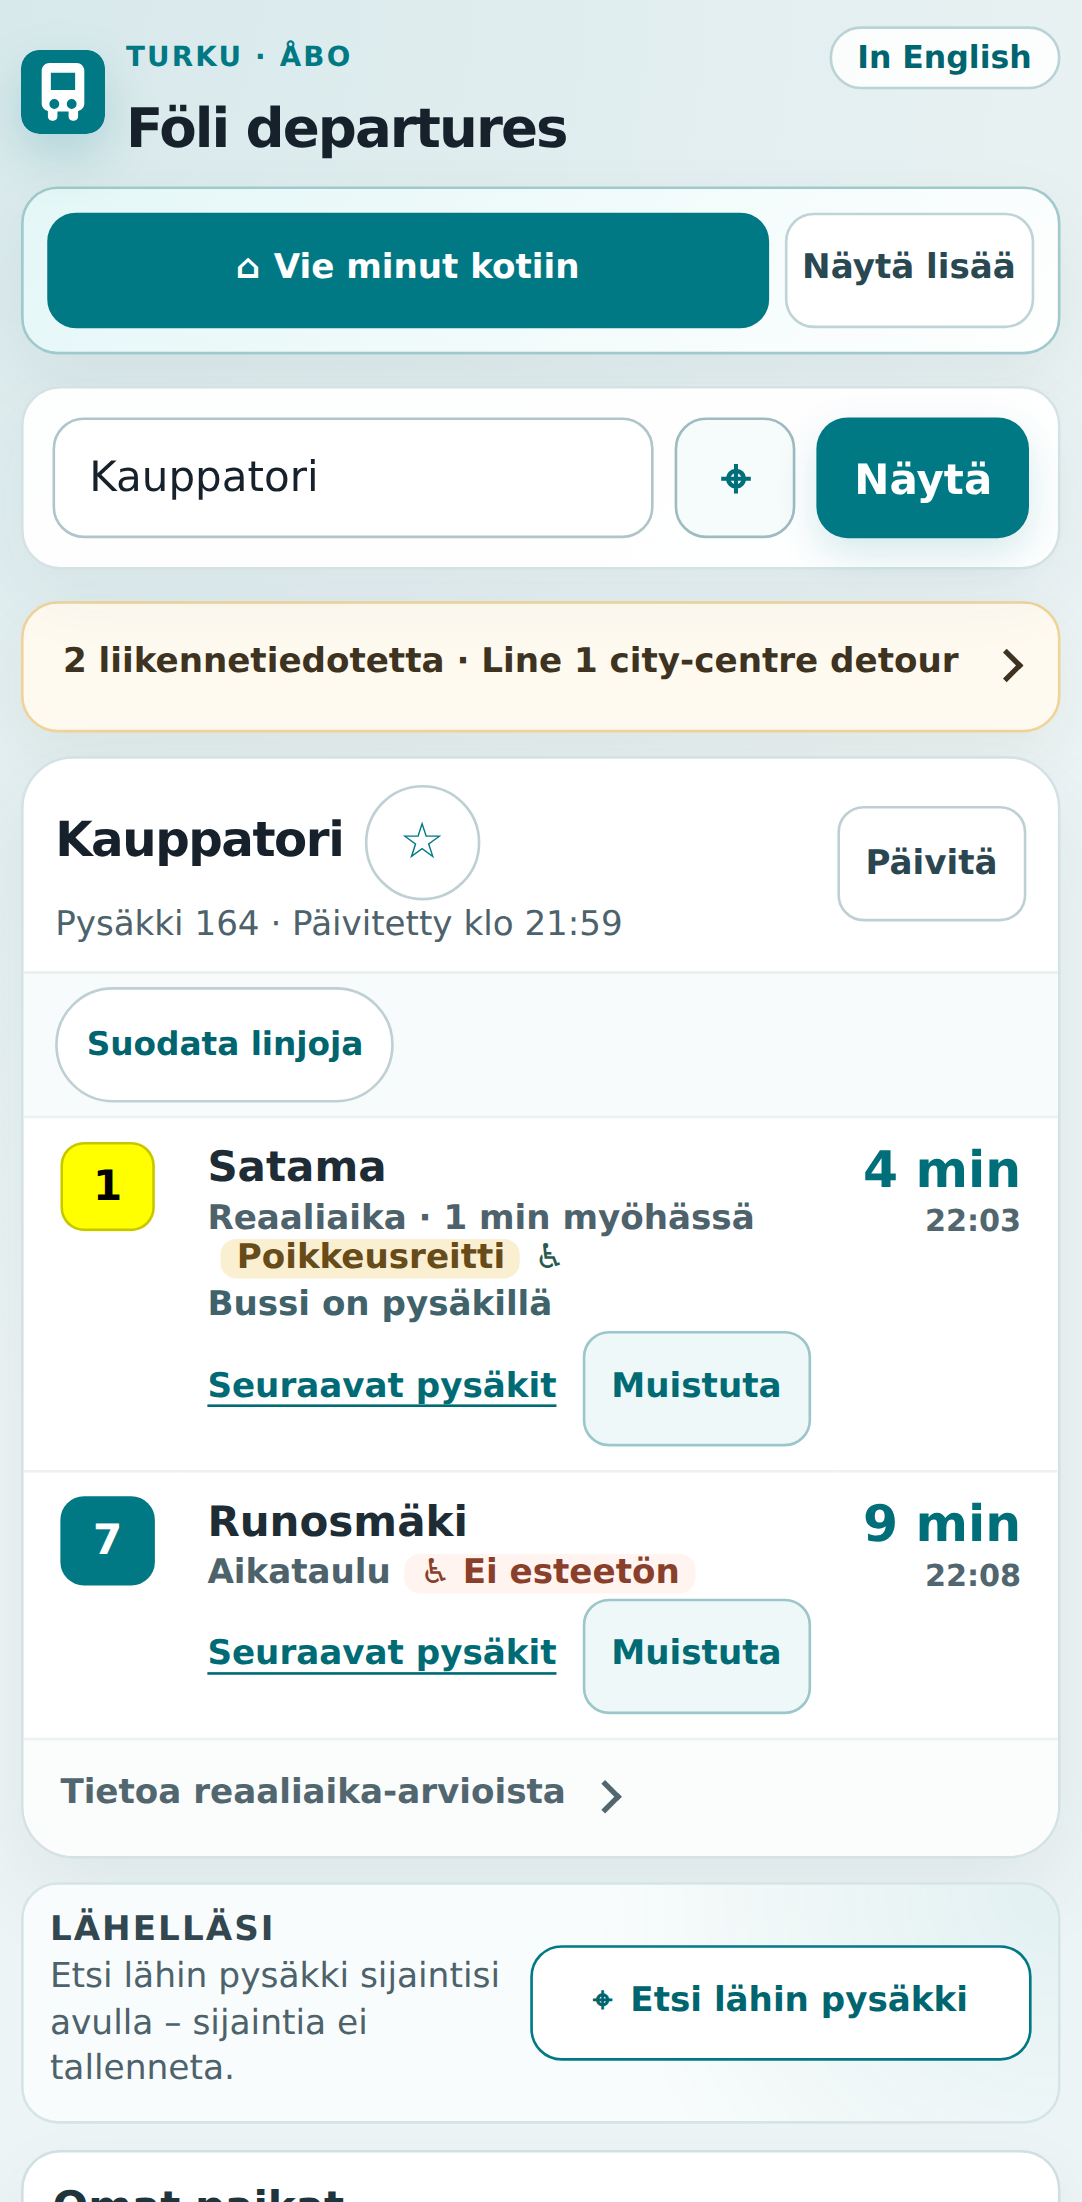
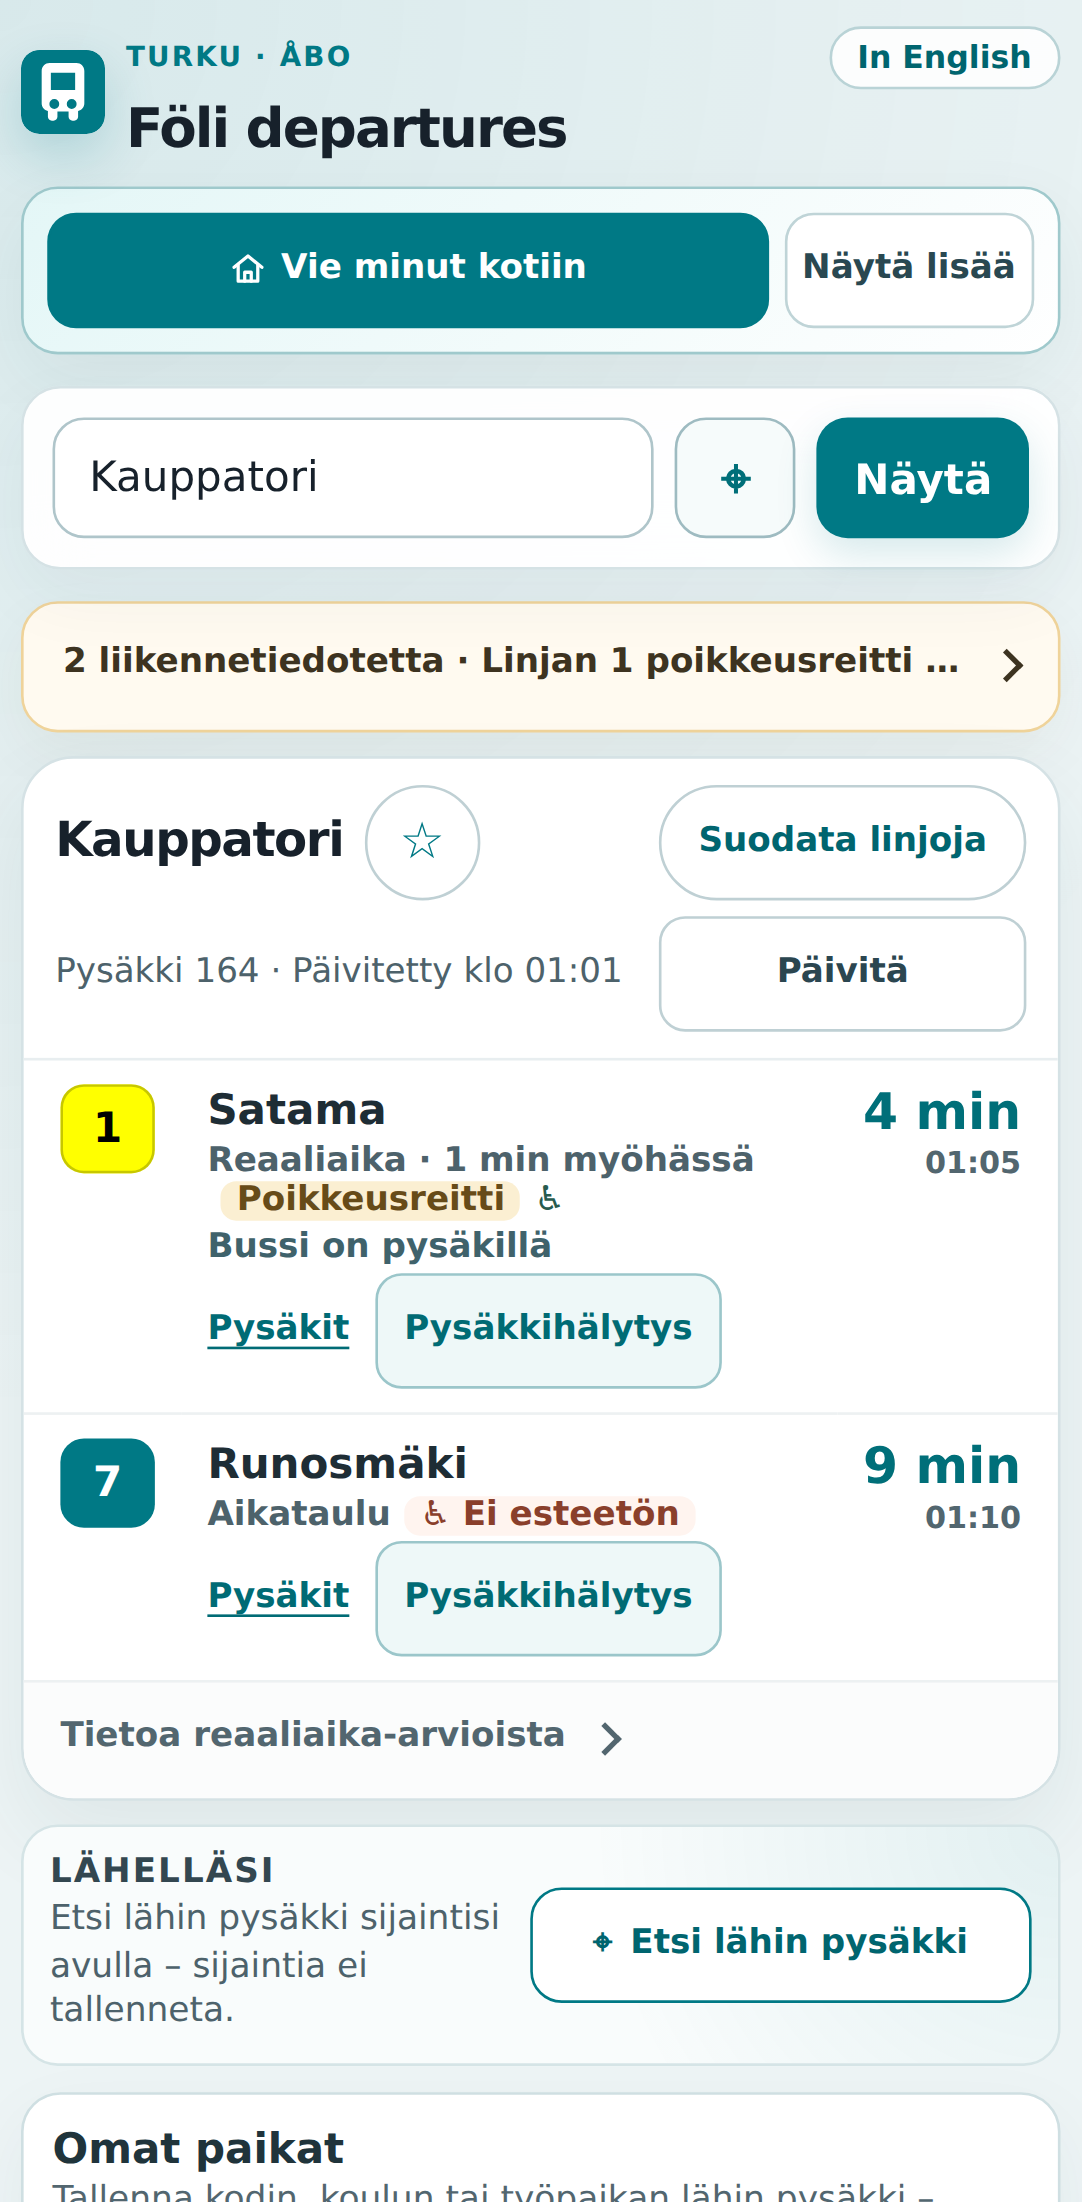
feat: install-sheet screenshots, and a phone board that keeps its rows short
- The manifest lists two phone screenshots and one laptop screenshot, so
  Android can show its fuller install sheet. The e2e flows that take the
  README pictures take these too. They are not precached, and verify:pwa
  checks both of those things.
- On a 360 px phone, "Next stops" and "Get-off alert" now share one line
  (in Finnish, "Pysäkit" and "Pysäkkihälytys"). Each row had grown by the
  button's height, and the second departure fell off the first screen.
- The folded service updates stay on one line, cutting the title rather
  than the departures.
- Ride Mode's line, stops-left and time sit in one row on a phone. "Get off
  now" shows only its one button, without the small print under it.
- The loading message stays together, the Home card keeps its "·" with the
  stop name, and an empty place says how to use a stop you are not at.

Claude-Session: https://claude.ai/code/session_01PDq2QrcNs2gzHQBUtSjcr4

diff --git a/e2e/daily-flow.spec.js b/e2e/daily-flow.spec.js
@@ -756,6 +756,12 @@ test("Ride Mode says get off now once the bus is standing at the stop", async ({
     await page
       .locator('section[aria-labelledby="ride-mode-title"]')
       .screenshot({ path: "artifacts/screenshots/foli-ride-now.png" });
+    // And the whole screen, for the install sheet (public/screenshots).
+    await page.screenshot({
+      path: "artifacts/screenshots/manifest-ride-phone.jpg",
+      type: "jpeg",
+      quality: 80,
+    });
   }
 
   // The confirmation only exists at this stage, and it has to end the ride
@@ -2368,4 +2374,14 @@ test("captures the README's product screenshots", async ({ page }, testInfo) => 
     path: `artifacts/screenshots/${fileName}`,
     fullPage: testInfo.project.name === "chromium-desktop",
   });
+  // The install sheet's pictures (public/screenshots): one screen each.
+  if (testInfo.project.name !== "webkit-mobile") {
+    await page.screenshot({
+      path: `artifacts/screenshots/manifest-board-${
+        testInfo.project.name === "chromium-desktop" ? "wide" : "phone"
+      }.jpg`,
+      type: "jpeg",
+      quality: 80,
+    });
+  }
 });

diff --git a/src/components/ServiceAlerts.jsx b/src/components/ServiceAlerts.jsx
@@ -250,13 +250,17 @@ function ServiceAlerts({ alerts, error = false, receivedAtMs = null }) {
           aria-controls="service-alerts-list"
           onClick={() => setPhoneOpen((current) => !current)}
         >
-          {phoneOpen
-            ? t("Hide service updates")
-            : `${
-                alerts.length === 1
-                  ? t("1 service update")
-                  : t("{count} service updates", { count: alerts.length })
-              } · ${alerts[0].title}`}
+          {/* One line on a phone: wrapped, it pushed the first departure
+              down a line. The count stays whole; the title is cut. */}
+          <span className={styles.phoneToggleText}>
+            {phoneOpen
+              ? t("Hide service updates")
+              : `${
+                  alerts.length === 1
+                    ? t("1 service update")
+                    : t("{count} service updates", { count: alerts.length })
+                } · ${alerts[0].title}`}
+          </span>
         </button>
       )}
 

diff --git a/src/components/HomeRecovery.jsx b/src/components/HomeRecovery.jsx
@@ -14,6 +14,10 @@ import StopName from "./StopName";
 const PRINTED_REQUEST_FINNISH =
   "Voitteko auttaa minua jäämään pois oikealla pysäkillä?";
 const PRINTED_REQUEST_ENGLISH = "Could you help me get off at the right stop?";
+// Held to the name by a no-break space: a narrow card broke the line before
+// the dot, and the next line started with it.
+const NAME_SEPARATOR = "\u00a0·";
+
 // Printed for the driver as the driver card shows it, whatever the
 // interface language: "Pysäkki / Stop 164".
 const PRINTED_STOP_FINNISH = "Pysäkki";
@@ -81,9 +85,10 @@ function HomeRecovery({
         <span>
           <strong>{label}</strong>
           <small>
-            <StopName stop={primaryStop} />{" "}
+            <StopName stop={primaryStop} />
+            {NAME_SEPARATOR}{" "}
             <span className={styles.stopNumber}>
-              · {t("stop {id}", { id: primaryStop.id })}
+              {t("stop {id}", { id: primaryStop.id })}
             </span>
           </small>
         </span>

diff --git a/src/components/BusStopDisplay.module.css b/src/components/BusStopDisplay.module.css
@@ -199,8 +199,11 @@
   font-weight: 750;
 }
 
+/* Centred as one block: stretched over the height, "Connecting to Föli"
+   and "Loading departures…" drifted apart. */
 .state {
   display: grid;
+  align-content: center;
   gap: 6px;
   place-items: center;
   min-height: 180px;
@@ -706,6 +709,30 @@
 
   .rideSetupRow > td {
     padding: 0 10px 12px;
+  }
+}
+
+/* A 360px phone: "Next stops" and "Get-off alert" missed one line by 4px,
+   and every row grew by the button's height. */
+@media (max-width: 380px) {
+  .rowActions {
+    gap: 0 6px;
+  }
+
+  .rideButton {
+    padding-inline: 0.5rem;
+  }
+
+  .table td {
+    padding-inline: 7px;
+  }
+
+  .table td:first-child {
+    padding-left: 12px;
+  }
+
+  .table td:last-child {
+    padding-right: 12px;
   }
 }
 

diff --git a/src/i18n/fi/places.js b/src/i18n/fi/places.js
@@ -26,8 +26,8 @@ export default {
   "Tick at least one stop to save.": "Valitse vähintään yksi pysäkki, niin voit tallentaa.",
   "Confirm the stop above to save.": "Vahvista pysäkki yllä, niin voit tallentaa.",
   "Not set": "Ei vielä tallennettu",
-  "Save the stops you use, without typing an address.":
-    "Tallenna käyttämäsi pysäkit kirjoittamatta osoitetta.",
+  "Save the stops you use, without typing an address. Not at the stop? Open its departures first, then use it here.":
+    "Tallenna käyttämäsi pysäkit kirjoittamatta osoitetta. Et ole pysäkillä? Avaa ensin sen lähdöt ja käytä sitä sitten tässä.",
   "Use my location": "Käytä sijaintiani",
   "Use {name}": "Käytä pysäkkiä {name}",
 

diff --git a/src/components/RideMode.jsx b/src/components/RideMode.jsx
@@ -592,11 +592,15 @@ export default function RideMode({
 
 
 
-      <p className={styles.boundary}>
-        {t(
-          "Ride Mode is travel help, not a guaranteed alarm. A browser can pause a page it thinks you have left, so keep this screen open with the sound on."
-        )}
-      </p>
+      {/* Said on every screen before this one; at the stop it stood between
+          the passenger and the doors. */}
+      {!gettingOffNow && (
+        <p className={styles.boundary}>
+          {t(
+            "Ride Mode is travel help, not a guaranteed alarm. A browser can pause a page it thinks you have left, so keep this screen open with the sound on."
+          )}
+        </p>
+      )}
     </section>
   );
 }

diff --git a/src/components/RideMode.module.css b/src/components/RideMode.module.css
@@ -313,14 +313,19 @@
     text-align: center;
   }
 
-  .metrics,
   .statusGrid {
     grid-template-columns: 1fr;
   }
 
+  /* Line, stops left and time in one row: stacked, they took 120px of a
+     360px screen from the instruction above them. */
+  .metrics {
+    gap: 6px;
+  }
+
   .metrics > div {
-    grid-template-columns: 6rem minmax(0, 1fr);
-    align-items: baseline;
+    align-content: start;
+    padding: 8px;
   }
 
   .target strong {

diff --git a/src/components/MyPlaces.jsx b/src/components/MyPlaces.jsx
@@ -628,7 +628,7 @@ function EmptyPlaceCard({
         </span>
         <div>
           <h3>{label}</h3>
-          <p>{t("Save the stops you use, without typing an address.")}</p>
+          <p>{t("Save the stops you use, without typing an address. Not at the stop? Open its departures first, then use it here.")}</p>
         </div>
         <div className={styles.emptyActions}>
           <button

diff --git a/src/components/TripJourneyDetails.module.css b/src/components/TripJourneyDetails.module.css
@@ -24,7 +24,9 @@
   display: none;
 }
 
-@media (max-width: 400px) {
+/* Up to 430px, so a Pixel's 412px keeps "Pysäkit" and "Pysäkkihälytys" on
+   one line of a row, as a 360px phone does. */
+@media (max-width: 430px) {
   .toggleLong {
     display: none;
   }

diff --git a/src/components/HomeRecovery.module.css b/src/components/HomeRecovery.module.css
@@ -71,7 +71,8 @@
   overflow-wrap: anywhere;
 }
 
-/* A narrow card broke "stop | 164"; the number moves down whole. */
+/* A narrow card broke "stop | 164"; the number moves down whole, after
+   "Kauppatori ·". */
 .stopNumber {
   white-space: nowrap;
 }

diff --git a/src/components/ServiceAlerts.module.css b/src/components/ServiceAlerts.module.css
@@ -567,6 +567,13 @@
     text-align: left;
   }
 
+  .phoneToggleText {
+    overflow: hidden;
+    min-width: 0;
+    text-overflow: ellipsis;
+    white-space: nowrap;
+  }
+
   .phoneToggle::after {
     content: "";
     flex: 0 0 auto;
